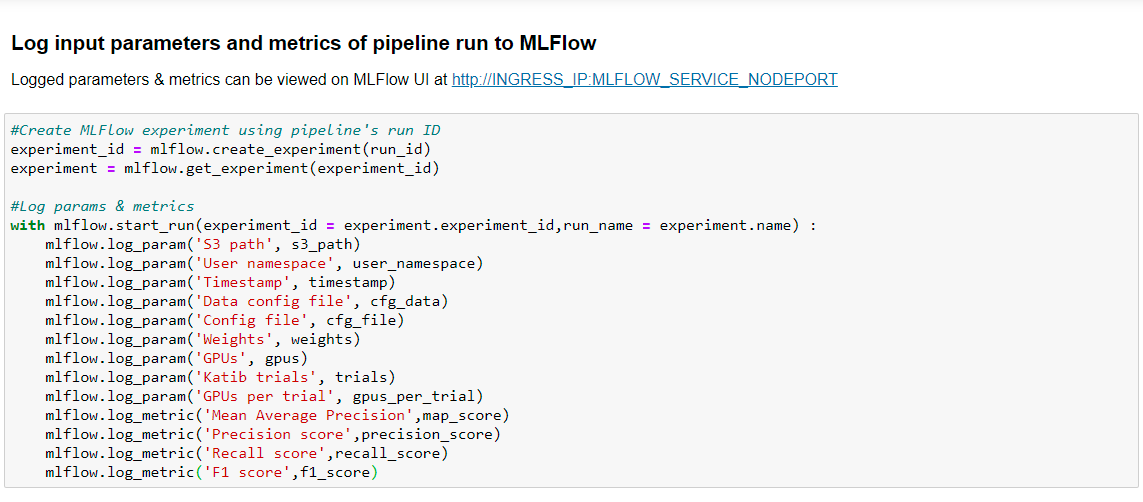
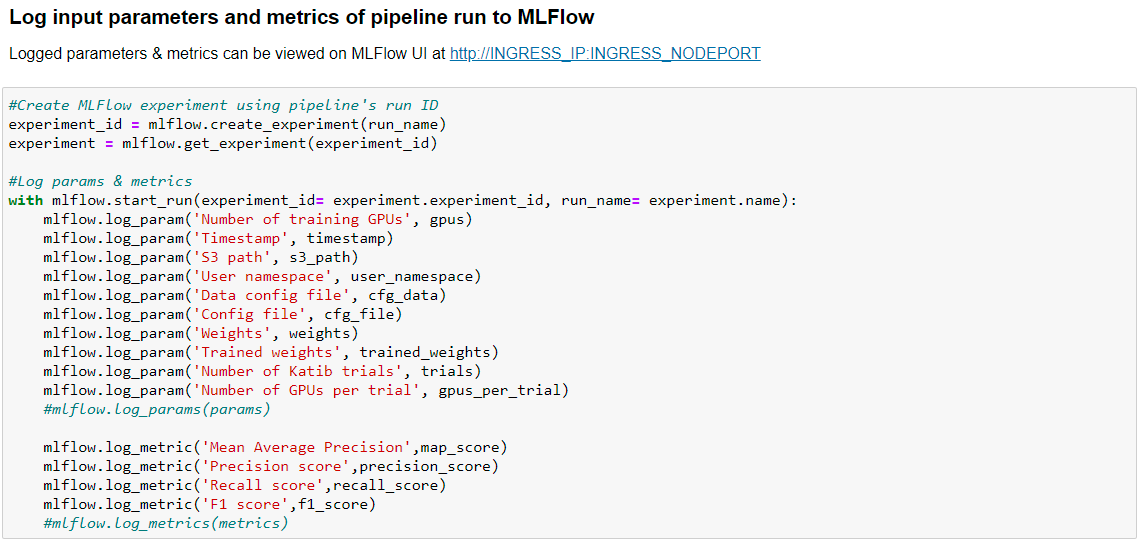
updated image

diff --git a/apps/computer-vision/object-detection/onprem/pipeline/mlflow/README.md b/apps/computer-vision/object-detection/onprem/pipeline/mlflow/README.md
@@ -109,7 +109,7 @@ mlflow-service ClusterIP   10.111.135.88 <none> 80/TCP
 
 Access MLflow dashboard UI using URL in the following format:
 
-```http://INGRESS_IP:INGRESS_IP_PORT/mlflow-dashboard/```
+```http://INGRESS_IP:INGRESS_NODEPORT/mlflow-dashboard/```
 
 ![Mlfow](pictures/vis0.PNG)
 
